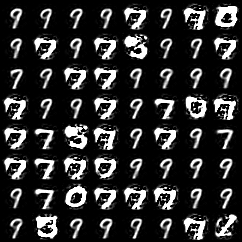
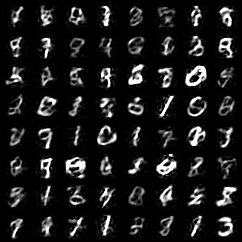
First version that produces good results

diff --git a/src/part_b_diffusion/unet.py b/src/part_b_diffusion/unet.py
@@ -36,54 +36,54 @@ class Unet(torch.nn.Module):
         self._convs = torch.nn.ModuleList([
             torch.nn.Sequential(
                 torch.nn.Conv2d(2, chs[0], kernel_size=3, padding=1),  # (batch, ch, 28, 28)
-                torch.nn.ReLU(),  # (batch, 8, 28, 28)
+                torch.nn.LogSigmoid(),  # (batch, 8, 28, 28)
             ),
             torch.nn.Sequential(
                 torch.nn.MaxPool2d(kernel_size=2, stride=2),  # (batch, ch, 14, 14)
                 torch.nn.Conv2d(chs[0], chs[1], kernel_size=3, padding=1),  # (batch, ch, 14, 14)
-                torch.nn.ReLU(),  # (batch, 16, 14, 14)
+                torch.nn.LogSigmoid(),  # (batch, 16, 14, 14)
             ),
             torch.nn.Sequential(
                 torch.nn.MaxPool2d(kernel_size=2, stride=2),  # (batch, ch, 7, 7)
                 torch.nn.Conv2d(chs[1], chs[2], kernel_size=3, padding=1),  # (batch, ch, 7, 7)
-                torch.nn.ReLU(),  # (batch, 32, 7, 7)
+                torch.nn.LogSigmoid(),  # (batch, 32, 7, 7)
             ),
             torch.nn.Sequential(
                 torch.nn.MaxPool2d(kernel_size=2, stride=2, padding=1),  # (batch, ch, 4, 4)
                 torch.nn.Conv2d(chs[2], chs[3], kernel_size=3, padding=1),  # (batch, ch, 4, 4)
-                torch.nn.ReLU(),  # (batch, 64, 4, 4)
+                torch.nn.LogSigmoid(),  # (batch, 64, 4, 4)
             ),
             torch.nn.Sequential(
                 torch.nn.MaxPool2d(kernel_size=2, stride=2),  # (batch, ch, 2, 2)
                 torch.nn.Conv2d(chs[3], chs[4], kernel_size=3, padding=1),  # (batch, ch, 2, 2)
-                torch.nn.ReLU(),  # (batch, 64, 2, 2)
+                torch.nn.LogSigmoid(),  # (batch, 64, 2, 2)
             ),
         ])
         self._tconvs = torch.nn.ModuleList([
             torch.nn.Sequential(
                 # input is the output of convs[4]
                 torch.nn.ConvTranspose2d(chs[4], chs[3], kernel_size=3, stride=2, padding=1, output_padding=1),  # (batch, 64, 4, 4)
-                torch.nn.ReLU(),
+                torch.nn.LogSigmoid(),
             ),
             torch.nn.Sequential(
                 # input is the output from the above sequential concated with the output from convs[3]
                 torch.nn.ConvTranspose2d(chs[3] * 2, chs[2], kernel_size=3, stride=2, padding=1, output_padding=0),  # (batch, 32, 7, 7)
-                torch.nn.ReLU(),
+                torch.nn.LogSigmoid(),
             ),
             torch.nn.Sequential(
                 # input is the output from the above sequential concated with the output from convs[2]
                 torch.nn.ConvTranspose2d(chs[2] * 2, chs[1], kernel_size=3, stride=2, padding=1, output_padding=1),  # (batch, chs[2], 14, 14)
-                torch.nn.ReLU(),
+                torch.nn.LogSigmoid(),
             ),
             torch.nn.Sequential(
                 # input is the output from the above sequential concated with the output from convs[1]
                 torch.nn.ConvTranspose2d(chs[1] * 2, chs[0], kernel_size=3, stride=2, padding=1, output_padding=1),  # (batch, chs[1], 28, 28)
-                torch.nn.ReLU(),
+                torch.nn.LogSigmoid(),
             ),
             torch.nn.Sequential(
                 # input is the output from the above sequential concated with the output from convs[0]
                 torch.nn.Conv2d(chs[0] * 2, chs[0], kernel_size=3, padding=1),  # (batch, chs[0], 28, 28)
-                torch.nn.ReLU(),
+                torch.nn.LogSigmoid(),
                 torch.nn.Conv2d(chs[0], 1, kernel_size=3, padding=1),  # (batch, 1, 28, 28)
             ),
         ])

diff --git a/src/part_b_diffusion/ddpm.py b/src/part_b_diffusion/ddpm.py
@@ -48,10 +48,11 @@ class DDPM(nn.Module):
         ### Implement Algorithm 1 here ###
         
         noise_e = torch.randn_like(x)
-        t = torch.randint(0, self.T, (x.shape[0], 1), device=x.device)
+        t = torch.randint(0, self.T, (x.shape[0],), device=x.device)
         noisy_image = torch.sqrt(self.alpha_cumprod[t]).reshape(-1, 1) * x  + torch.sqrt(1 - self.alpha_cumprod[t]).reshape(-1, 1) * noise_e
-        t_norm = t.float() / self.T 
-        equation = self.network(noisy_image, t_norm)
+        # Normalize timestep to [0, 1]
+        t_input = (t.float() / self.T).unsqueeze(1)
+        equation = self.network(noisy_image, t_input)
         neg_elbo = ((noise_e - equation)**2).mean(dim=1)
 
         return neg_elbo
@@ -73,15 +74,18 @@ class DDPM(nn.Module):
 
         # Sample x_t given x_{t+1} until x_0 is sampled
         for t in range(self.T-1, -1, -1):
-            if t > 1:
+            # According to Algorithm 2: z ~ N(0,I) if t > 1, else z = 0
+            # With 0-indexed t: code t=0 is paper t=1, so condition is t > 0
+            if t > 0:
                 z = torch.randn(shape).to(self.alpha.device)
             else:
                 z = 0
             
-            t_norm  = torch.full((shape[0], 1), t / self.T, device=x_t.device, dtype=torch.float)
-            e_theta = self.network(x_t, t_norm)
+            # Normalize t to [0, 1]
+            t_input = torch.full((shape[0], 1), t / self.T, device=x_t.device, dtype=torch.float)
+            e_theta = self.network(x_t, t_input)
             
-            if t % 20 == 0:
+            if t % 100 == 0:
                 print(f"[DEBUG] Step {t}: e_theta - min: {e_theta.min():.4f}, max: {e_theta.max():.4f}, mean: {e_theta.mean():.4f}")
             
             # Ensure e_theta doesn't have NaN
@@ -89,25 +93,15 @@ class DDPM(nn.Module):
                 print(f"[WARNING] NaN in network output at step {t}, replacing with zeros")
                 e_theta = torch.where(torch.isnan(e_theta), torch.zeros_like(e_theta), e_theta)
             
-            at = self.alpha_cumprod[t].reshape(-1, 1)
-            
-            # Clamp at to avoid division by zero / extremely small values
-            at = torch.clamp(at, min=1e-6)
+            at = self.alpha[t].reshape(-1, 1)
+            at_cumprod = self.alpha_cumprod[t].reshape(-1, 1)
             
             sqrt_at = torch.sqrt(at)
-            sqrt_1_minus_at = torch.sqrt(torch.clamp(1 - at, min=1e-6))
+            sqrt_1_minus_at_cumprod = torch.sqrt(1 - at_cumprod)
             
-            denoise = 1 / sqrt_at * (x_t - ((1 - at) / sqrt_1_minus_at * e_theta))
+            denoise = 1 / sqrt_at * (x_t - (self.beta[t].reshape(-1, 1) / sqrt_1_minus_at_cumprod * e_theta))
             
-            # Clamp denoise to prevent extreme values
-            denoise = torch.clamp(denoise, -10.0, 10.0)
-            
-            x_t = denoise + torch.sqrt(torch.clamp(self.beta[t], min=1e-8)) * z
-            
-            # Ensure x_t doesn't blow up
-            if torch.isnan(x_t).any() or torch.isinf(x_t).any():
-                print(f"[WARNING] NaN/Inf in x_t at step {t}, replacing with zero")
-                x_t = torch.where(torch.isnan(x_t) | torch.isinf(x_t), torch.zeros_like(x_t), x_t)
+            x_t = denoise + torch.sqrt(self.beta[t]) * z
         
         print(f"[DEBUG] Final x_0 - min: {x_t.min():.4f}, max: {x_t.max():.4f}, mean: {x_t.mean():.4f}")
         return x_t

diff --git a/src/part_b_diffusion/run_ddpm.py b/src/part_b_diffusion/run_ddpm.py
@@ -20,7 +20,6 @@ import yaml
 import torch
 import numpy as np
 from pathlib import Path
-from torchvision import datasets, transforms
 from torchvision.utils import save_image
 
 from part_b_diffusion.ddpm import DDPM, FcNetwork, train
@@ -28,6 +27,7 @@ from part_b_diffusion.unet import Unet
 from part_b_diffusion.ddpm_vae_beta import DDPMLatent, build_vae
 from part_a_vaes.vae_priors_temp import VAE
 from shared.fid_utils import compute_fid
+from shared.data_loader import get_mnist_raw
 
 
 def is_latent_mode(config: dict) -> bool:
@@ -62,23 +62,19 @@ def get_vae_path(config: dict) -> str:
     vae_name = vae_name.replace('{latent_dim}', str(config['vae']['latent_dim']))
     return os.path.join(config['paths']['model_dir'], vae_name)
 
-
 def preprocess_mnist(x: torch.Tensor) -> torch.Tensor:
     """Dequantize and scale MNIST images to [-1, 1]."""
-    x = x.float() / 255.0
+    x = x.float()  # Already [0, 1] from ToTensor()
     x = x + torch.rand_like(x) / 256.0  # Dequantization noise
     x = (x - 0.5) * 2.0  # Scale to [-1, 1]
     return x
-
 
 def get_data_loaders(config: dict):
     """Create train and test data loaders."""
     batch_size = config['data']['batch_size']
     
-    train_dataset = datasets.MNIST(root='data', train=True, download=True,
-                                   transform=transforms.ToTensor())
-    test_dataset = datasets.MNIST(root='data', train=False, download=True,
-                                  transform=transforms.ToTensor())
+    train_dataset = get_mnist_raw(split='train')
+    test_dataset = get_mnist_raw(split='test')
     
     def collate_fn(batch):
         images, _ = zip(*batch)
@@ -99,16 +95,14 @@ def get_data_loaders_2d(config: dict):
     """Create train/test data loaders for VAE (keeps 28x28 shape)."""
     batch_size = config['data']['batch_size']
     
-    train_dataset = datasets.MNIST(root='data', train=True, download=True,
-                                   transform=transforms.ToTensor())
-    test_dataset = datasets.MNIST(root='data', train=False, download=True,
-                                  transform=transforms.ToTensor())
+    train_dataset = get_mnist_raw(split='train')
+    test_dataset = get_mnist_raw(split='test')
     
     def collate_fn(batch):
         images, _ = zip(*batch)
         images = torch.stack(images)
-        # Scale to [0, 1] for VAE (squeeze channel dim)
-        return images.squeeze(1)  # (batch, 28, 28)
+        # Keep 28x28 shape (squeeze channel dim from (b,1,28,28) to (b,28,28))
+        return images.squeeze(1)
     
     train_loader = torch.utils.data.DataLoader(
         train_dataset, batch_size=batch_size, shuffle=True, collate_fn=collate_fn
@@ -201,7 +195,7 @@ def run_sample(config: dict):
     print(f"[DEBUG] After clamping - min: {samples.min():.4f}, max: {samples.max():.4f}, mean: {samples.mean():.4f}")
     
     samples = samples.reshape(num_samples, 1, 28, 28)
-    
+     
     # Save samples
     samples_dir = config['paths']['samples_dir']
     os.makedirs(samples_dir, exist_ok=True)

diff --git a/src/shared/data_loader.py b/src/shared/data_loader.py
@@ -4,6 +4,9 @@ import torch
 from torchvision import datasets, transforms
 
 
+# Data directory - always use current working directory (project root when using uv run)
+DATA_DIR = Path.cwd() / "data"
+
 def get_mnist(split="train", data_dir=None):
     """
     Load standard MNIST dataset.
@@ -16,7 +19,9 @@ def get_mnist(split="train", data_dir=None):
         MNIST dataset with standard normalization
     """
     if data_dir is None:
-        data_dir = Path(__file__).parent.parent.parent / "data"
+        data_dir = DATA_DIR
+    else:
+        data_dir = Path(data_dir).resolve()
     
     os.makedirs(data_dir, exist_ok=True)
     
@@ -48,13 +53,48 @@ def get_binarized_mnist(split="train", data_dir=None):
         MNIST dataset with binarized images
     """
     if data_dir is None:
-        data_dir = Path(__file__).parent.parent.parent / "data"
+        data_dir = DATA_DIR
+    else:
+        data_dir = Path(data_dir).resolve()
     
     os.makedirs(data_dir, exist_ok=True)
     
     transform = transforms.Compose([
         transforms.ToTensor(),
         transforms.Lambda(lambda x: (x > 0.5).float())
+    ])
+    
+    dataset = datasets.MNIST(
+        root=str(data_dir),
+        train=(split == "train"),
+        download=True,
+        transform=transform
+    )
+    
+    return dataset
+
+
+def get_mnist_raw(split="train", data_dir=None):
+    """
+    Load MNIST dataset as raw tensor [0, 1] without any normalization.
+    Suitable for diffusion models that apply custom preprocessing.
+    
+    Args:
+        split: "train" or "test"
+        data_dir: directory to save data (defaults to project root/data)
+    
+    Returns:
+        MNIST dataset with raw pixel values as tensors
+    """
+    if data_dir is None:
+        data_dir = DATA_DIR
+    else:
+        data_dir = Path(data_dir).resolve()
+    
+    os.makedirs(data_dir, exist_ok=True)
+    
+    transform = transforms.Compose([
+        transforms.ToTensor()
     ])
     
     dataset = datasets.MNIST(
